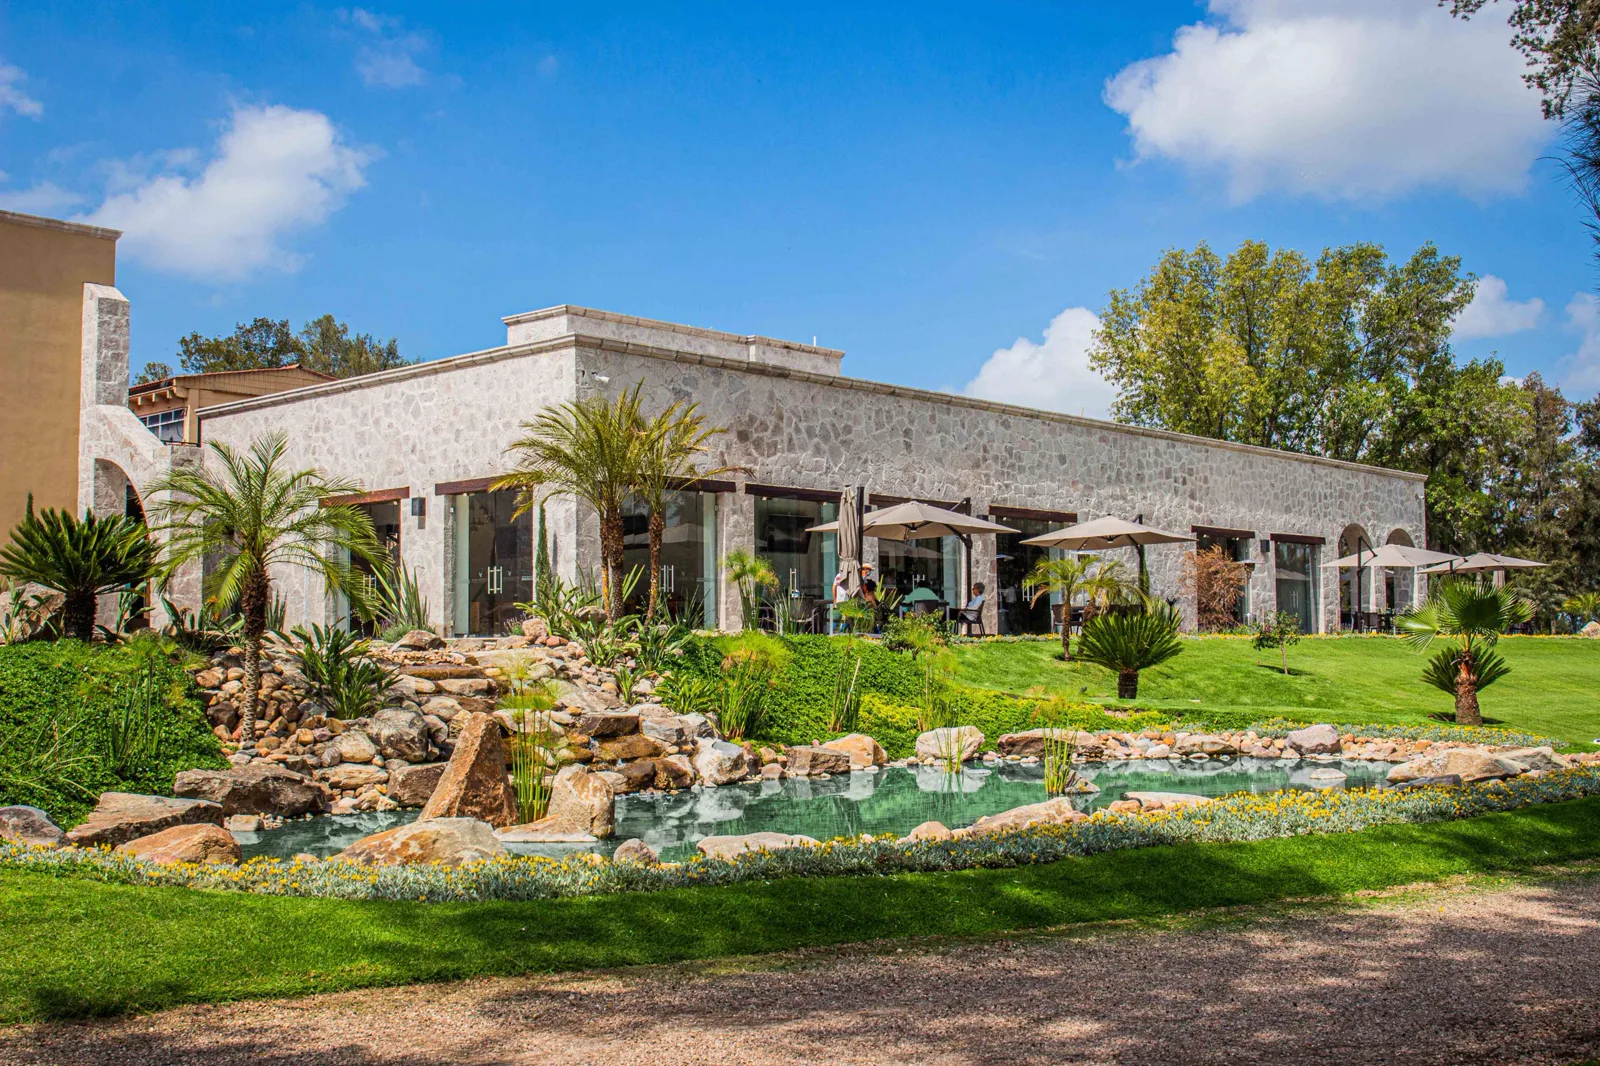
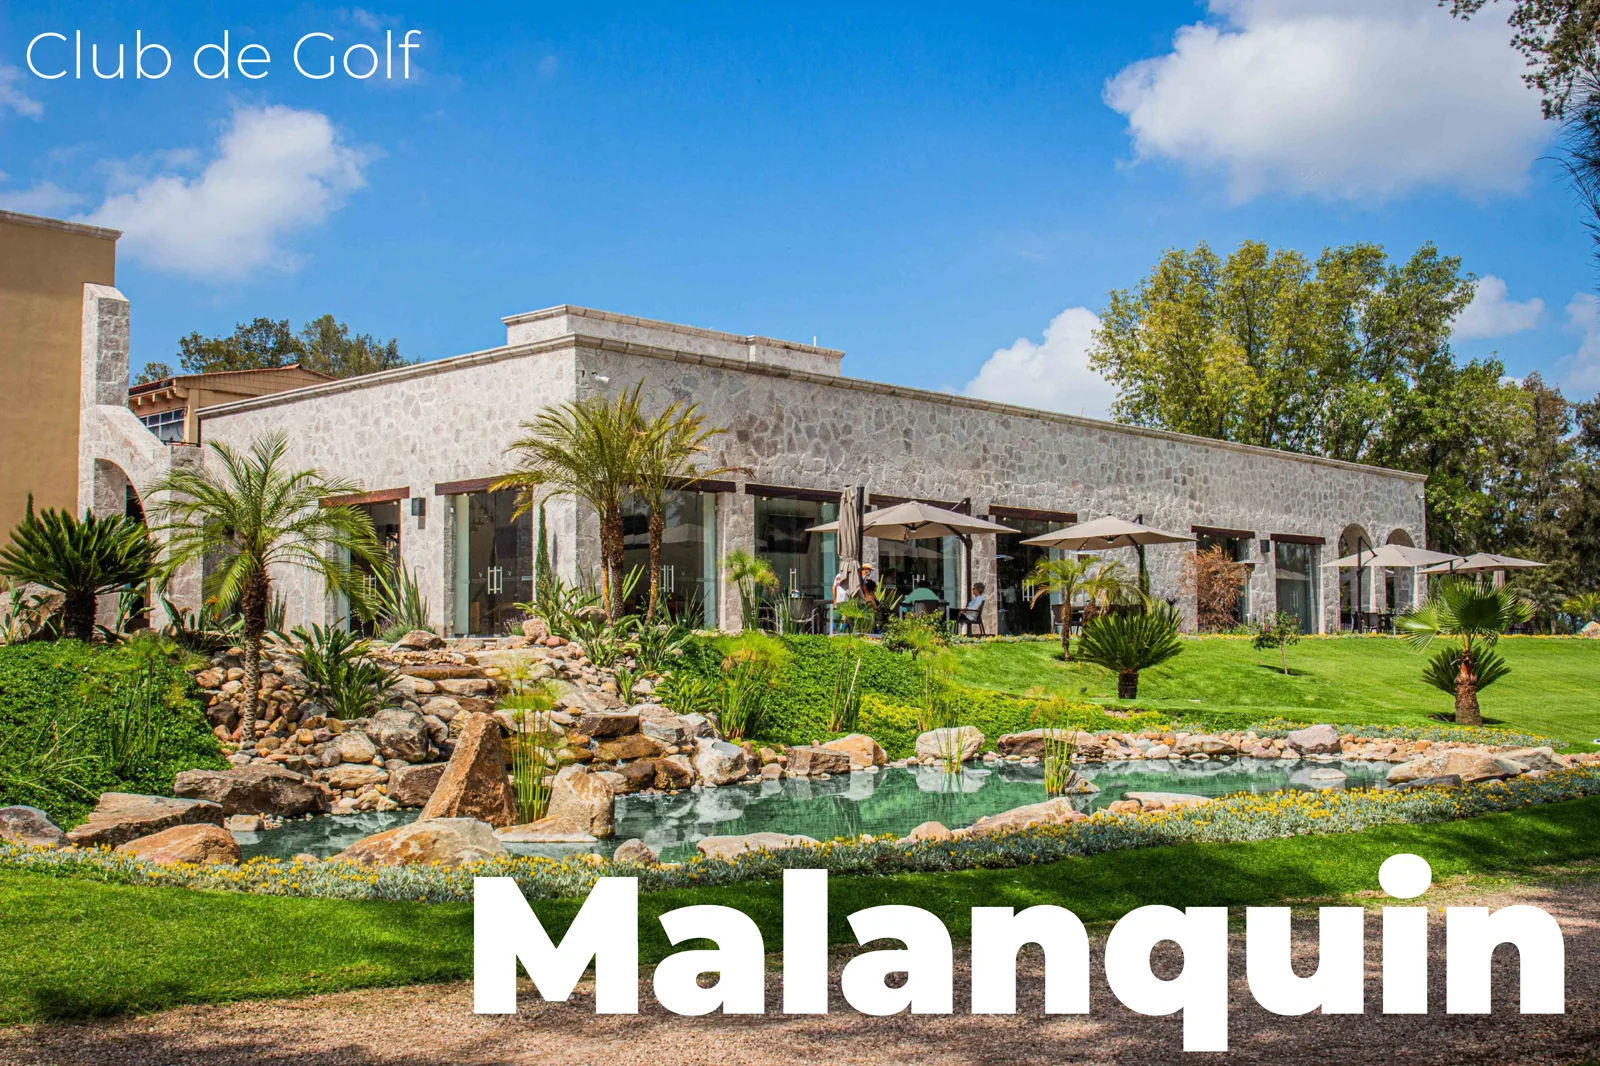
feat(portada): retiro de encabezado de enclave, alt descriptivo en celda 01 y altura de fila a 224px

Changed region(s): [[0.2812, 0.8049, 1.0, 0.9906], [0.0, 0.031, 0.2812, 0.0929]]

diff --git a/styles.css b/styles.css
@@ -3391,38 +3391,11 @@ body.catalog-page .site-header.scrolled { box-shadow: none; }
   margin: 0 auto;
 }
 
-.portada-enclave-tag {
-  display: block;
-  font-size: var(--t-label);
-  letter-spacing: 0.14em;
-  text-transform: uppercase;
-  color: var(--text-light);
-  margin-bottom: var(--space-close);
-}
-
-.portada-enclave-titulo {
-  font-size: var(--t-2);
-  line-height: 1.2;
-  font-weight: 500;
-  color: var(--text-main);
-  margin: 0 0 calc(var(--space-close) * 2) 0;
-  letter-spacing: normal;
-}
-
-.portada-enclave-parrafo {
-  font-size: 1rem;
-  line-height: 1.7;
-  color: var(--text-muted);
-  margin: 0;
-  max-width: 520px;
-}
-
 .enclave-mosaico {
   display: grid;
   grid-template-columns: repeat(4, 1fr);
-  grid-auto-rows: 215px;
+  grid-auto-rows: 224px;
   gap: var(--space-close);
-  margin-top: var(--space-block);
   grid-template-areas:
     "club  club  video aerea"
     "club  club  video vacia1"
@@ -3554,8 +3527,9 @@ body.catalog-page .site-header.scrolled { box-shadow: none; }
 
   .enclave-mosaico {
     grid-template-columns: repeat(2, 1fr);
-    grid-auto-rows: 200px;
+    grid-auto-rows: 224px;
     grid-template-areas:
+      "club  club"
       "club  club"
       "video aerea"
       "video tenis"
@@ -3605,7 +3579,11 @@ body.catalog-page .site-header.scrolled { box-shadow: none; }
     gap: var(--space-block);
   }
 
-  .enclave-mosaico-club,
+  .enclave-mosaico-club {
+    aspect-ratio: 3 / 2;
+    height: auto;
+  }
+
   .enclave-mosaico-aerea,
   .enclave-mosaico-hoyos,
   .enclave-mosaico-tenis {

diff --git a/index.html b/index.html
@@ -111,22 +111,10 @@
        ========================================================================== -->
   <section class="portada-enclave" id="enclave">
     <div class="portada-enclave-interior">
-      <div class="portada-enclave-encabezado">
-        <span class="portada-enclave-tag">El enclave</span>
-        <h2 class="portada-enclave-titulo">Club de Golf Malanquín</h2>
-        <p class="portada-enclave-parrafo">
-          Ubicado en el Km 3 de la carretera San Miguel de Allende – Celaya, el Club de Golf Malanquín combina privacidad absoluta, campo de golf profesional de 18 hoyos y vistas despejadas a la cordillera de Los Picachos. Un micro-mercado residencial distinguido por su tranquilidad, seguridad integral y arquitectura de autor en coexistencia con el paisaje del Bajío.
-        </p>
-      </div>
-
       <div class="enclave-mosaico">
         <!-- 01 Casa club -->
         <div class="enclave-mosaico-item enclave-mosaico-club">
-          <img src="assets/enclave/casa-club.webp" alt="Casa club" loading="lazy">
-          <div class="enclave-mosaico-rotulo">
-            <span class="enclave-mosaico-num">01</span>
-            <span class="enclave-mosaico-txt">Casa club</span>
-          </div>
+          <img src="assets/enclave/casa-club.webp" alt="Club de Golf Malanquín, San Miguel de Allende. Casa club de cantera con estanque y jardines." loading="lazy">
         </div>
 
         <!-- 02 Recorrido aéreo (Video) -->
